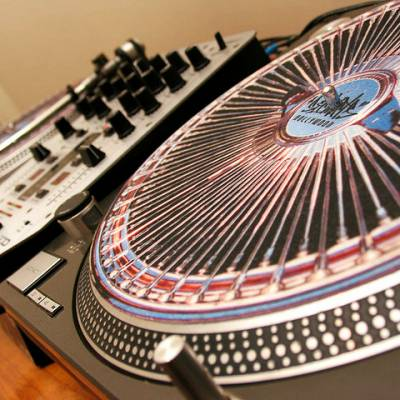
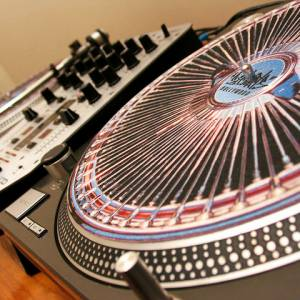
image fix

diff --git a/portfolio.html b/portfolio.html
@@ -28,7 +28,7 @@
     
             <div id="main-bio">
                 <section class="portPhotos">
-                    <img src="assets/images/iPad_Guy.jpg" alt="Hangman iPad Photo" width="300">
+                    <img src="assets/images/iPad_Guy.jpg" alt="Hangman iPad Photo" >
                     <a href="#">
                         <div class="textAbsolute">
                             Hangman
@@ -38,7 +38,7 @@
                 </section>
 
                 <section class="portPhotos">
-                    <img src="assets/images/Turn_Table.jpg" alt="Turn Table Photo" width="300">
+                    <img src="assets/images/Turn_Table.jpg" alt="Turn Table Photo" >
                     <a href="#">
                         <div class="textAbsolute">
                             RPG Game
@@ -48,7 +48,7 @@
                 </section>
 
                 <section class="portPhotos">
-                    <img src="assets/images/Apple_Earbuds.jpg" alt="Apple Earbuds Photo" width="300">
+                    <img src="assets/images/Apple_Earbuds.jpg" alt="Apple Earbuds Photo" >
                     <a href="#">
                         <div class="textAbsolute">
                             Trivia Game
@@ -58,7 +58,7 @@
                 </section>
 
                 <section class="portPhotos">
-                        <img src="assets/images/Phone_with_Earbuds.jpg" alt="iPhone with Headphones Photo" width="300">
+                        <img src="assets/images/Phone_with_Earbuds.jpg" alt="iPhone with Headphones Photo" >
                         <a href="#">
                             <div class="textAbsolute">
                                 Rutgers Info Widget
@@ -68,7 +68,7 @@
                 </section>
 
                 <section class="portPhotos">
-                        <img src="assets/images/LED_TV.jpg" alt="LED TV Photo" width="300">
+                        <img src="assets/images/LED_TV.jpg" alt="LED TV Photo" >
                         <a href="#">
                             <div class="textAbsolute">
                                 Rock Paper Scissors

diff --git a/assets/css/style.css b/assets/css/style.css
@@ -104,6 +104,10 @@ span a:hover {
   width: 100%;
 }
 
+#contactForm{
+  clear: both;
+}
+
 #bio-image {
   width: 200px;
   height: 200px;
@@ -156,6 +160,8 @@ p {
   float: left;
   margin: 37px 74px 37px 0px;
   position: relative;
+  max-width: 100%;
+  width: 300px;
 }
 
 
